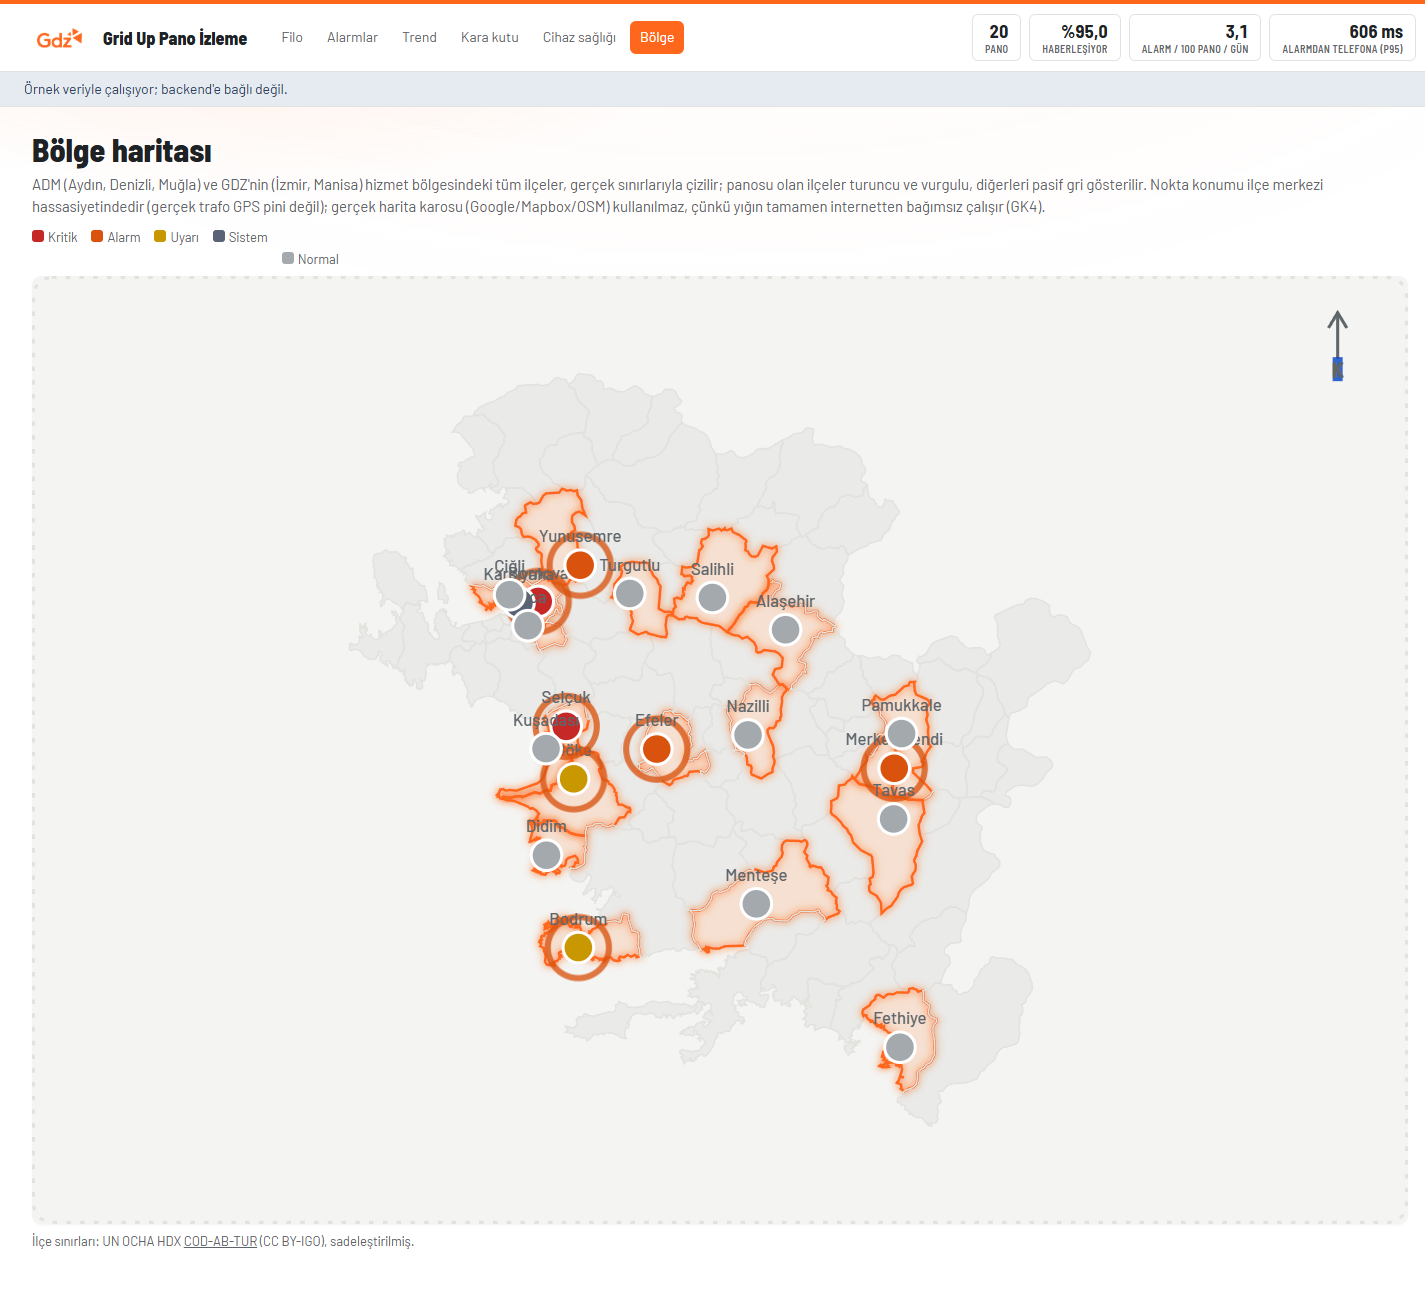
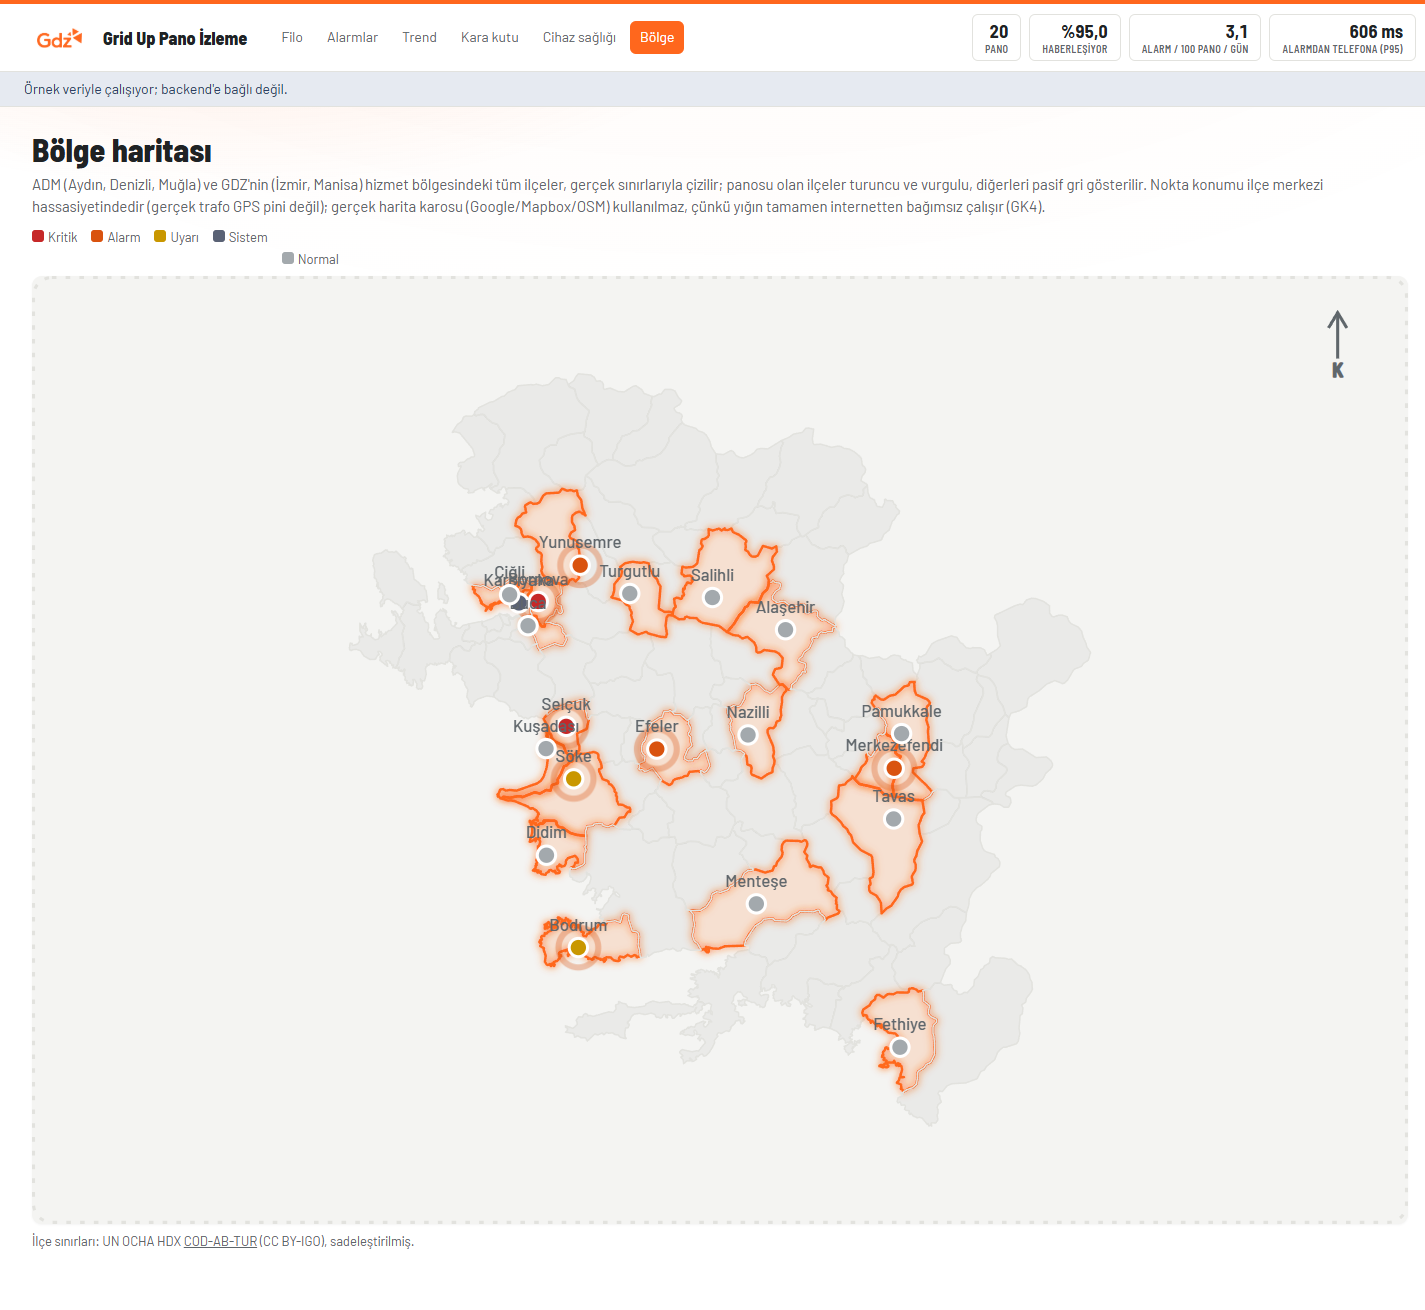
fix(frontend): bolge haritasinda nokta boyutu ve glow tutarsizligi
Kullanici Fethiye ekran goruntusuyle iki sorun bildirdi: "bolgelerin uzerindeki
noktalar biraz fazla buyuk onlari kucult, bir de sanki kenarlar bazi kisimlar
glowlu bazilari duz duruyor mouse u ustune getirmeden."

1) Pano noktalari kucultuldu: r=10->6, halo r=20->13, etiket ofseti buna gore.

2) Glow tutarsizliginin gercek bir kok nedeni vardi: #geo-glow filtresi
   varsayilan filterUnits="objectBoundingBox" ile tanimliydi, bolge her
   ilcenin KENDI sinir kutusuna gore % hesaplaniyordu. Fethiye gibi ince/uzun
   kiyi seritli, duzensiz ilcelerde bu, feGaussianBlur'un bazi kenarlarda
   filtre bolgesinin disinda kalip kirpilmasina yol aciyordu — o kisimlar
   "duz" (glowsuz) gorunuyordu. filterUnits="userSpaceOnUse" + tum harita
   tuvalini kapsayan sabit, comert bir bolgeyle duzeltildi; artik hicbir
   ilcenin sekli glow'u kirpmiyor. Ek olarak .geo-district/.geo-territory'ye
   stroke-linejoin: round eklendi (Douglas-Peucker'dan gelen keskin
   koselerdeki miter-join sivrilmelerini yumusatmak icin).

Dogrulama: tsc/test/build temiz. Fethiye ozelinde chrome-devtools ile
yakinlastirilip kontrol edildi — sinir artik tum cevresinde tutarli glow
gosteriyor, konsolda hata yok. assets/ekran/07-bolge-haritasi.png yenilendi.

diff --git a/frontend/src/pages/BolgeHaritasi.tsx b/frontend/src/pages/BolgeHaritasi.tsx
@@ -137,7 +137,12 @@ function GeoHarita({ panels, allCount }: { panels: Geo[]; allCount: number }) {
     <>
       <svg className="geo-map" viewBox={`0 0 ${MAP_W} ${MAP_H}`} role="group" aria-label="ADM/GDZ hizmet bölgesi ve panoların gerçek konumu">
         <defs>
-          <filter id="geo-glow" x="-60%" y="-60%" width="220%" height="220%">
+          {/* filterUnits=userSpaceOnUse + tum tuvali kaplayan sabit bolge: objectBoundingBox
+              (varsayilan) kullanilsaydi her ilcenin KENDI (bazen çok ince/uzun kiyi seritli)
+              sinir kutusuna gore % olarak kirpilirdi — bu da bazi kenarlarda glow'un kirpilip
+              duz gorunmesine yol aciyordu (kullanici bulgusu, Fethiye ornegi). Sabit, comert bir
+              bolge tum sekiller icin tutarli glow saglar. */}
+          <filter id="geo-glow" filterUnits="userSpaceOnUse" x={-100} y={-100} width={MAP_W + 200} height={MAP_H + 200}>
             <feGaussianBlur in="SourceGraphic" stdDeviation="2.5" result="blur" />
             <feMerge>
               <feMergeNode in="blur" />
@@ -170,16 +175,16 @@ function GeoHarita({ panels, allCount }: { panels: Geo[]; allCount: number }) {
           const prio = effectivePrio(p);
           return (
             <g key={p.pano_id}>
-              {prio && !["SYS", "INFO"].includes(prio) && <circle className="geo-halo" cx={x} cy={y} r={20} />}
+              {prio && !["SYS", "INFO"].includes(prio) && <circle className="geo-halo" cx={x} cy={y} r={13} />}
               <Link to={`/pano/${p.pano_id}`} title={`${p.name} (${p.pano_id}), risk ${p.risk_score}`}>
                 <circle
                   className={prio ? "geo-dot" : "geo-dot normal"}
                   style={prio ? { fill: PRIO_COLOR[prio] } : undefined}
                   cx={x}
                   cy={y}
-                  r={10}
+                  r={6}
                 />
-                <text className="geo-label" x={x} y={y - 15} textAnchor="middle">
+                <text className="geo-label" x={x} y={y - 11} textAnchor="middle">
                   {p.name.split(" ")[0]}
                 </text>
               </Link>

diff --git a/frontend/src/app.css b/frontend/src/app.css
@@ -394,6 +394,8 @@
   fill: rgba(255, 103, 29, 0.07);
   stroke: var(--brand);
   stroke-width: 1.6;
+  stroke-linejoin: round;
+  stroke-linecap: round;
   filter: url(#geo-glow);
   transform-box: fill-box;
   transform-origin: center;
@@ -411,6 +413,7 @@
   fill: rgba(31, 34, 36, 0.05);
   stroke: var(--line);
   stroke-width: 1;
+  stroke-linejoin: round;
 }
 @media (prefers-reduced-motion: reduce) {
   .geo-district { transition: none; }

diff --git a/frontend/TASARIM-REVIZYONU.md b/frontend/TASARIM-REVIZYONU.md
@@ -602,6 +602,28 @@ logo 45,7 KB pakete eklendi). `/bolge` chrome-devtools ile 1440px ve 390px'de ko
 öne çıkıyor, GDZ logosu sol üstte doğru oranda görünüyor, konsolda hata yok. `assets/ekran/
 07-bolge-haritasi.png` yenilendi.
 
+## 19. Nokta boyutu ve glow tutarsızlığı düzeltmesi (16 Eylül, aynı gün)
+
+Kullanıcı Fethiye ilçesinin ekran görüntüsünü gönderip iki sorun bildirdi: (a) pano noktaları
+fazla büyük; (b) sınır çizgisinin bazı kısımları glow'lu, bazıları düz duruyor — hover olmadan bile.
+
+(a) basit: `r={10}` → `r={6}`, halo `r={20}` → `r={13}`, etiket ofseti buna göre küçültüldü.
+
+(b) gerçek bir kök nedeni vardı: `#geo-glow` filtresi varsayılan `filterUnits="objectBoundingBox"`
+ile tanımlıydı — bölge `x/y/width/height`'ı her ilçenin KENDİ sınır kutusuna göre yüzde olarak
+hesaplanıyordu. Fethiye gibi ince/uzun kıyı şeritli, düzensiz ilçelerde bu, bazı kenarlarda
+blur'un (feGaussianBlur) filtre bölgesinin dışında kalıp kırpılmasına, dolayısıyla o kısımların
+"düz" (glow'suz) görünmesine yol açıyordu — tamamen şekle bağlı, rastgele görünen ama aslında
+matematiksel bir kırpma hatası. Düzeltme: `filterUnits="userSpaceOnUse"` + tüm harita tuvalini
+(`MAP_W`/`MAP_H`) kapsayan sabit, cömert bir bölge (`-100`/`+200` kenar payı) — artık hiçbir
+ilçenin şekli, kendi sınır kutusu ne kadar ince/uzun olursa olsun, glow'u kırpmıyor. Ayrıca
+`.geo-district`/`.geo-territory`'ye `stroke-linejoin: round` eklendi (Douglas-Peucker'dan gelen
+keskin köşelerdeki miter-join sivrilmelerini yumuşatmak için, ek bir tutarlılık iyileştirmesi).
+
+Doğrulama: tsc/test/build temiz. Fethiye özelinde chrome-devtools ile yakınlaştırılıp kontrol
+edildi — sınır artık tüm çevresinde tutarlı glow gösteriyor, konsolda hata yok.
+`assets/ekran/07-bolge-haritasi.png` yenilendi.
+
 ## Kaynaklar
 
 - ADM Elektrik: <https://www.admelektrik.com.tr/> · GDZ Elektrik: <https://www.gdzelektrik.com.tr/>

diff --git a/STATUS.md b/STATUS.md
@@ -9,10 +9,21 @@
 > PLAN.md'de yalnızca kutucuk işaretleme ve "Günlük Kayıt" satırı ekleme yapılır (kural: ortak dosya).
 > Her önemli adımdan sonra bu dosya güncellenir. Dal: `berke/frontend` (origin'e push edildi).
 
-**Son güncelleme:** 16 Eylül 2026 (Harita tamamlandı: ADM/GDZ'nin tüm 96 ilçesi + gerçek GDZ
-logosu, §20).
-**Son commit:** `BolgeHaritasi.tsx` artık ADM/GDZ'nin hizmet bölgesindeki 96 ilçenin tamamını
-çiziyor (panosuz olanlar pasif gri); sol üstte kullanıcının sağladığı gerçek GDZ logosu var.
+**Son güncelleme:** 16 Eylül 2026 (Harita: nokta boyutu küçültüldü, glow tutarsızlığı (SVG filtre
+kırpma hatası) düzeltildi, §21).
+**Son commit:** Pano noktaları küçültüldü, `#geo-glow` filtresi `userSpaceOnUse`'a alınarak
+Fethiye gibi ince/uzun ilçelerde glow'un kırpılması giderildi.
+
+## 21. Nokta boyutu ve glow tutarsızlığı düzeltmesi (kullanıcı geri bildirimi, ekran görüntüsüyle)
+
+Kullanıcı Fethiye'nin ekran görüntüsünü gönderip iki sorun bildirdi: pano noktaları fazla büyük,
+sınır çizgisi bazı yerlerde glow'lu bazı yerlerde düz (hover olmadan bile). İkincisinin gerçek bir
+kök nedeni vardı: `#geo-glow` filtresi varsayılan `objectBoundingBox` birimindeydi, bölge her
+ilçenin KENDİ sınır kutusuna göre % hesaplanıyordu — ince/uzun kıyı şeritli ilçelerde blur bazı
+kenarlarda filtre bölgesi dışında kalıp kırpılıyordu. `filterUnits="userSpaceOnUse"` + tüm haritayı
+kapsayan sabit bölgeyle düzeltildi. Noktalar `r=10→6` küçültüldü. Ayrıntı:
+`frontend/TASARIM-REVIZYONU.md` §19. Doğrulama: tsc/test/build temiz, Fethiye özelinde
+yakınlaştırılarak kontrol edildi, konsolda hata yok. `assets/ekran/07-bolge-haritasi.png` yenilendi.
 
 ## 20. Haritayı tamamlama (96 ilçe) + gerçek GDZ logosu (kullanıcı talebi, 16 Eylül)
 
